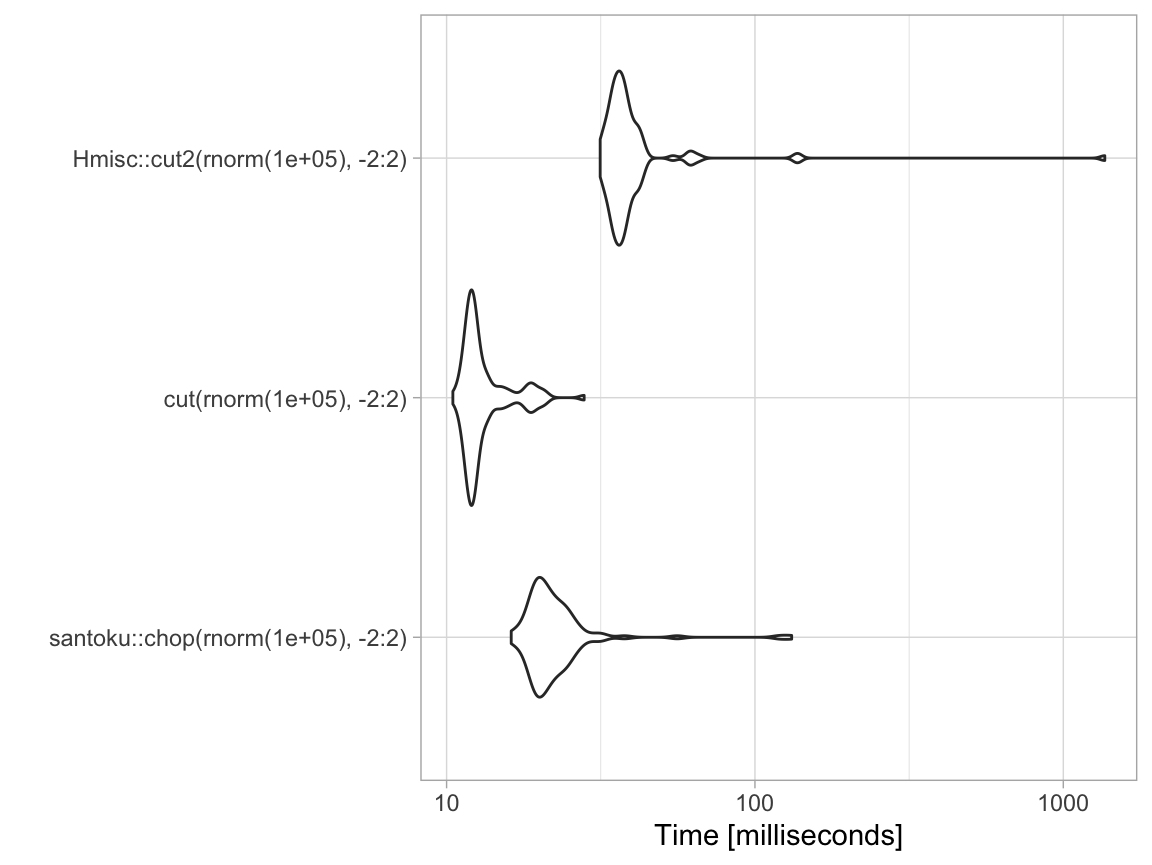
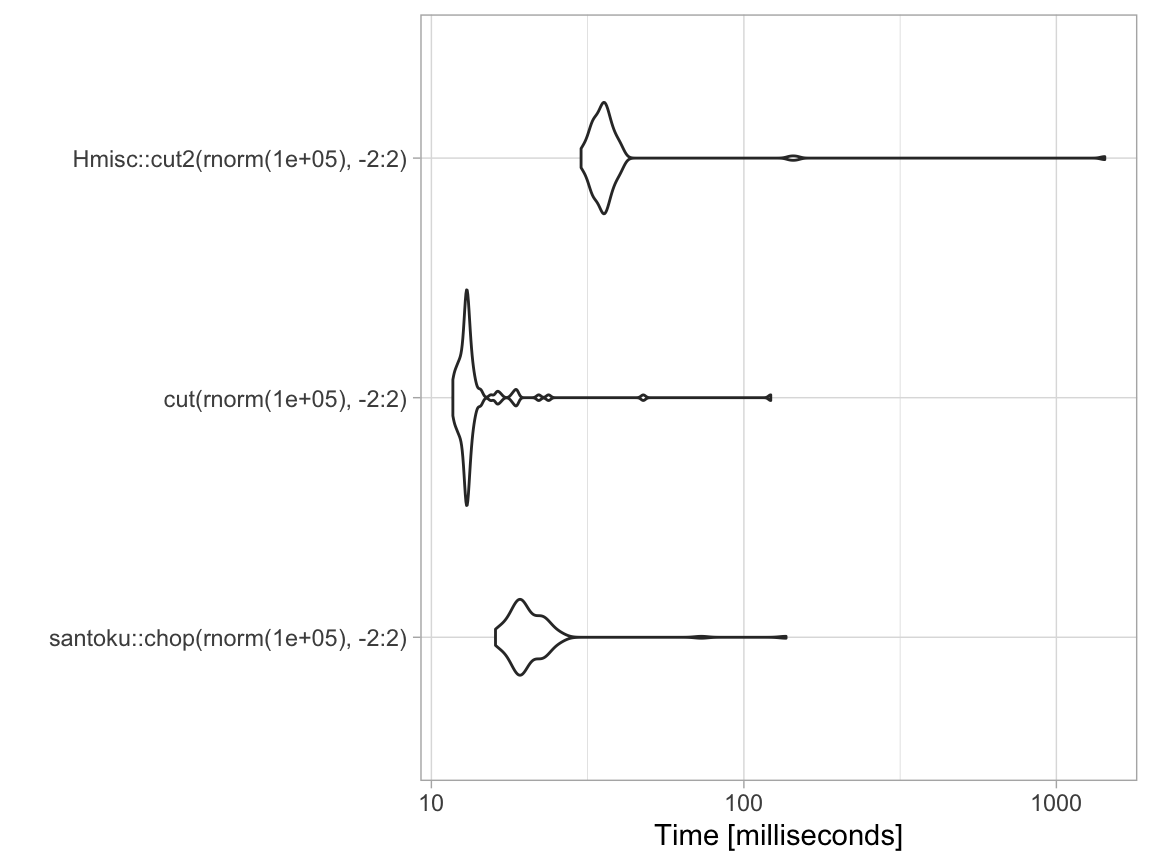
Update website to new version

diff --git a/docs/news/index.html b/docs/news/index.html
@@ -79,7 +79,7 @@
       </button>
       <span class="navbar-brand">
         <a class="navbar-link" href="../index.html">santoku</a>
-        <span class="version label label-default" data-toggle="tooltip" data-placement="bottom" title="Released version">0.4.1</span>
+        <span class="version label label-default" data-toggle="tooltip" data-placement="bottom" title="Released version">0.5.0</span>
       </span>
     </div>
 
@@ -152,17 +152,30 @@
       <small>Source: <a href='https://github.com/hughjonesd/santoku/blob/master/NEWS.md'><code>NEWS.md</code></a></small>
     </div>
 
-    <div id="santoku-0-4-1" class="section level1">
+    <div id="santoku-050" class="section level1">
+<h1 class="page-header" data-toc-text="0.5.0">
+<a href="#santoku-050" class="anchor"></a>santoku 0.5.0<small> Unreleased </small>
+</h1>
+<ul>
+<li>Negative numbers can be used in <code><a href="../reference/chop_width.html">chop_width()</a></code>.
+<ul>
+<li>This sets <code>left = FALSE</code> by default.</li>
+<li>Also works for negative time intervals.</li>
+</ul>
+</li>
+</ul>
+</div>
+    <div id="santoku-041" class="section level1">
 <h1 class="page-header" data-toc-text="0.4.1">
-<a href="#santoku-0-4-1" class="anchor"></a>santoku 0.4.1<small> 2020-06-16 </small>
+<a href="#santoku-041" class="anchor"></a>santoku 0.4.1<small> 2020-06-16 </small>
 </h1>
 <ul>
 <li>Bugfix: <code><a href="../reference/chop.html">chop(1:4, 1)</a></code> was erroring.</li>
 </ul>
 </div>
-    <div id="santoku-0-4-0" class="section level1">
+    <div id="santoku-040" class="section level1">
 <h1 class="page-header" data-toc-text="0.4.0">
-<a href="#santoku-0-4-0" class="anchor"></a>santoku 0.4.0<small> 2020-06-09 </small>
+<a href="#santoku-040" class="anchor"></a>santoku 0.4.0<small> 2020-06-09 </small>
 </h1>
 <div id="interface-changes" class="section level2">
 <h2 class="hasAnchor">
@@ -170,7 +183,7 @@
 <p>The new version has some interface changes. These are based on user experience, and are designed to make using <code><a href="../reference/chop.html">chop()</a></code> more intuitive and predictable.</p>
 <ul>
 <li>
-<code><a href="../reference/chop.html">chop()</a></code> has two new arguments, <code>left</code> and <code>close_end</code>.
+<p><code><a href="../reference/chop.html">chop()</a></code> has two new arguments, <code>left</code> and <code>close_end</code>.</p>
 <ul>
 <li>Using <code>left = FALSE</code> is simpler and more intuitive than wrapping breaks in <code><a href="../reference/brk-left-right.html">brk_right()</a></code>.</li>
 <li>
@@ -181,11 +194,11 @@
 </ul>
 </li>
 <li>
-<code>close_end</code> is now <code>FALSE</code> by default.
+<p><code>close_end</code> is now <code>FALSE</code> by default.</p>
 <ul>
-<li>This prevents user surprises when e.g. <code><a href="../reference/chop.html">chop(3, 1:3)</a></code> puts <code>3</code> into a different category than <code><a href="../reference/chop.html">chop(3, 1:4)</a></code>.</li>
+<li>This prevents user surprises when e.g. <code><a href="../reference/chop.html">chop(3, 1:3)</a></code> puts <code>3</code> into a different category than <code><a href="../reference/chop.html">chop(3, 1:4)</a></code>.</li>
 <li>
-<code>close_end</code> is <code>TRUE</code> by default for <code><a href="../reference/chop_quantiles.html">chop_quantiles()</a></code>, <code><a href="../reference/chop_n.html">chop_n()</a></code> and similar functions. This ensures that e.g. <code><a href="../reference/chop_quantiles.html">chop_quantiles(x, c(0, 1/3, 2/3, 1))</a></code> does what you would expect.</li>
+<code>close_end</code> is <code>TRUE</code> by default for <code><a href="../reference/chop_quantiles.html">chop_quantiles()</a></code>, <code><a href="../reference/chop_n.html">chop_n()</a></code> and similar functions. This ensures that e.g.  <code><a href="../reference/chop_quantiles.html">chop_quantiles(x, c(0, 1/3, 2/3, 1))</a></code> does what you would expect.</li>
 </ul>
 </li>
 <li><p>The <code>groups</code> argument to <code><a href="../reference/chop_width.html">chop_evenly()</a></code> has been renamed from <code>groups</code> to <code>intervals</code>. This should make it easier to remember the difference between <code><a href="../reference/chop_width.html">chop_evenly()</a></code> and <code><a href="../reference/chop_quantiles.html">chop_equally()</a></code>. (Chop evenly into <code>n</code> equal-width <em>intervals</em>, or chop equally into <code>n</code> equal-sized <em>groups</em>.)</p></li>
@@ -196,14 +209,15 @@
 <h2 class="hasAnchor">
 <a href="#other-changes" class="anchor"></a>Other changes</h2>
 <ul>
-<li>Date and datetime (<code>POSIXct</code>) objects can now be chopped.
+<li>
+<p>Date and datetime (<code>POSIXct</code>) objects can now be chopped.</p>
 <ul>
 <li>
 <code><a href="../reference/chop_width.html">chop_width()</a></code> accepts <code>difftime</code>, <code><a href="http://lubridate.tidyverse.org/reference/period.html">lubridate::period</a></code> or <code><a href="http://lubridate.tidyverse.org/reference/duration.html">lubridate::duration</a></code> objects</li>
 <li>all other <code>chop_</code> functions work as well.</li>
 </ul>
 </li>
-<li><p>Many labelling functions have a new <code>fmt</code> argument. This can be a string interpreted by <code><a href="https://rdrr.io/r/base/sprintf.html">sprintf()</a></code> or <code><a href="https://rdrr.io/r/base/format.html">format()</a></code>, or a 1-argument formatting function for break endpoints, e.g. <code><a href="https://scales.r-lib.org//reference/label_percent.html">scales::label_percent()</a></code>.</p></li>
+<li><p>Many labelling functions have a new <code>fmt</code> argument. This can be a string interpreted by <code><a href="https://rdrr.io/r/base/sprintf.html">sprintf()</a></code> or <code><a href="https://rdrr.io/r/base/format.html">format()</a></code>, or a 1-argument formatting function for break endpoints, e.g. <code><a href="https://scales.r-lib.org//reference/label_percent.html">scales::label_percent()</a></code>.</p></li>
 <li><p>Experimental: <code><a href="../reference/lbl_discrete.html">lbl_discrete()</a></code> for discrete data such as integers or (most) dates.</p></li>
 <li><p>There is a new <code><a href="../reference/lbl_endpoint.html">lbl_endpoint()</a></code> function for labelling intervals solely by their left or right endpoint.</p></li>
 <li><p><code><a href="../reference/chop_mean_sd.html">brk_mean_sd()</a></code> now accepts non-integer positive numbers.</p></li>
@@ -213,16 +227,16 @@
 </ul>
 </div>
 </div>
-    <div id="santoku-0-3-0" class="section level1">
+    <div id="santoku-030" class="section level1">
 <h1 class="page-header" data-toc-text="0.3.0">
-<a href="#santoku-0-3-0" class="anchor"></a>santoku 0.3.0<small> 2020-01-24 </small>
+<a href="#santoku-030" class="anchor"></a>santoku 0.3.0<small> 2020-01-24 </small>
 </h1>
 <ul>
 <li><p>First CRAN release.</p></li>
 <li><p>Changed <code>kut()</code> to <code><a href="../reference/chop.html">kiru()</a></code>. <code><a href="../reference/chop.html">kiru()</a></code> is an alternative spelling for <code><a href="../reference/chop.html">chop()</a></code>, for use when the tidyr package is loaded.</p></li>
 <li><p><code>lbl_sequence()</code> has become <code><a href="../reference/lbl_manual.html">lbl_manual()</a></code>.</p></li>
 <li>
-<code>lbl_letters()</code> and friends have been replaced by <code><a href="../reference/lbl_seq.html">lbl_seq()</a></code>:
+<p><code>lbl_letters()</code> and friends have been replaced by <code><a href="../reference/lbl_seq.html">lbl_seq()</a></code>:</p>
 <ul>
 <li>to replace <code>lbl_letters()</code> use <code><a href="../reference/lbl_seq.html">lbl_seq()</a></code>
 </li>
@@ -234,15 +248,15 @@
 </li>
 <li>to replace <code>lbl_numerals()</code> use <code><a href="../reference/lbl_seq.html">lbl_seq("1")</a></code>
 </li>
-<li>for more complex formatting use e.g. <code><a href="../reference/lbl_seq.html">lbl_seq("A:")</a></code>, <code><a href="../reference/lbl_seq.html">lbl_seq("(i)")</a></code>
+<li>for more complex formatting use e.g. <code><a href="../reference/lbl_seq.html">lbl_seq("A:")</a></code>, <code><a href="../reference/lbl_seq.html">lbl_seq("(i)")</a></code>
 </li>
 </ul>
 </li>
 </ul>
 </div>
-    <div id="santoku-0-2-0" class="section level1">
+    <div id="santoku-020" class="section level1">
 <h1 class="page-header" data-toc-text="0.2.0">
-<a href="#santoku-0-2-0" class="anchor"></a>santoku 0.2.0<small> Unreleased </small>
+<a href="#santoku-020" class="anchor"></a>santoku 0.2.0<small> Unreleased </small>
 </h1>
 <ul>
 <li><p>Added a <code>NEWS.md</code> file to track changes to the package.</p></li>

diff --git a/docs/articles/website-articles/performance.html b/docs/articles/website-articles/performance.html
@@ -38,7 +38,7 @@
       </button>
       <span class="navbar-brand">
         <a class="navbar-link" href="../../index.html">santoku</a>
-        <span class="version label label-default" data-toggle="tooltip" data-placement="bottom" title="Released version">0.4.1</span>
+        <span class="version label label-default" data-toggle="tooltip" data-placement="bottom" title="Released version">0.5.0</span>
       </span>
     </div>
 
@@ -104,13 +104,13 @@
 
       
 
-      </header><div class="row">
+      </header><script src="performance_files/accessible-code-block-0.0.1/empty-anchor.js"></script><div class="row">
   <div class="col-md-9 contents">
     <div class="page-header toc-ignore">
       <h1 data-toc-skip>Performance</h1>
                         <h4 class="author">David Hugh-Jones</h4>
             
-            <h4 class="date">2020-06-17</h4>
+            <h4 class="date">2020-08-17</h4>
       
       <small class="dont-index">Source: <a href="https://github.com/hughjonesd/santoku/blob/master/vignettes/website-articles/performance.Rmd"><code>vignettes/website-articles/performance.Rmd</code></a></small>
       <div class="hidden name"><code>performance.Rmd</code></div>
@@ -125,7 +125,7 @@
 <p>The core of santoku is written in C++. It is reasonably fast:</p>
 <div class="sourceCode" id="cb1"><html><body><pre class="r">
 <span class="fu"><a href="https://rdrr.io/r/utils/packageDescription.html">packageVersion</a></span>(<span class="st">"santoku"</span>)
-<span class="co">#&gt; [1] '0.4.1'</span>
+<span class="co">#&gt; [1] '0.5.0'</span>
 <span class="no">mb</span> <span class="kw">&lt;-</span> <span class="kw pkg">microbenchmark</span><span class="kw ns">::</span><span class="fu"><a href="https://rdrr.io/pkg/microbenchmark/man/microbenchmark.html">microbenchmark</a></span>(
         <span class="kw pkg">santoku</span><span class="kw ns">::</span><span class="fu"><a href="../../reference/chop.html">chop</a></span>(<span class="fu"><a href="https://rdrr.io/r/stats/Normal.html">rnorm</a></span>(<span class="fl">1e5</span>), -<span class="fl">2</span>:<span class="fl">2</span>),
                   <span class="fu"><a href="https://rdrr.io/r/base/cut.html">cut</a></span>(<span class="fu"><a href="https://rdrr.io/r/stats/Normal.html">rnorm</a></span>(<span class="fl">1e5</span>), -<span class="fl">2</span>:<span class="fl">2</span>),
@@ -133,14 +133,14 @@
       )
 <span class="no">mb</span>
 <span class="co">#&gt; Unit: milliseconds</span>
-<span class="co">#&gt;                               expr      min       lq     mean   median       uq</span>
-<span class="co">#&gt;  santoku::chop(rnorm(1e+05), -2:2) 16.20324 19.52585 24.16990 20.87317 23.83831</span>
-<span class="co">#&gt;            cut(rnorm(1e+05), -2:2) 10.48017 11.85034 13.41989 12.26808 13.48449</span>
-<span class="co">#&gt;    Hmisc::cut2(rnorm(1e+05), -2:2) 31.48280 34.82027 53.32684 36.86512 39.45689</span>
-<span class="co">#&gt;         max neval cld</span>
-<span class="co">#&gt;   131.55395   100  a </span>
-<span class="co">#&gt;    27.93251   100  a </span>
-<span class="co">#&gt;  1363.16763   100   b</span></pre></body></html></div>
+<span class="co">#&gt;                               expr      min       lq     mean  median       uq</span>
+<span class="co">#&gt;  santoku::chop(rnorm(1e+05), -2:2) 16.03802 18.64176 21.85786 19.6044 22.25228</span>
+<span class="co">#&gt;            cut(rnorm(1e+05), -2:2) 11.71520 12.60380 14.88399 12.9680 13.36752</span>
+<span class="co">#&gt;    Hmisc::cut2(rnorm(1e+05), -2:2) 30.12912 33.26945 51.38185 35.5054 37.15570</span>
+<span class="co">#&gt;        max neval</span>
+<span class="co">#&gt;   136.4545   100</span>
+<span class="co">#&gt;   121.8933   100</span>
+<span class="co">#&gt;  1428.6020   100</span></pre></body></html></div>
 <div class="sourceCode" id="cb2"><html><body><pre class="r"><span class="kw pkg">ggplot2</span><span class="kw ns">::</span><span class="fu"><a href="https://ggplot2.tidyverse.org/reference/autoplot.html">autoplot</a></span>(<span class="no">mb</span>) + <span class="kw pkg">ggplot2</span><span class="kw ns">::</span><span class="fu"><a href="https://ggplot2.tidyverse.org/reference/ggtheme.html">theme_light</a></span>()
 <span class="co">#&gt; Coordinate system already present. Adding new coordinate system, which will replace the existing one.</span></pre></body></html></div>
 <p><img src="performance_files/figure-html/unnamed-chunk-2-1.png" width="576"></p>

diff --git a/docs/reference/santoku-package.html b/docs/reference/santoku-package.html
@@ -83,7 +83,7 @@ same length, coding which interval each element of x falls into." />
       </button>
       <span class="navbar-brand">
         <a class="navbar-link" href="../index.html">santoku</a>
-        <span class="version label label-default" data-toggle="tooltip" data-placement="bottom" title="Released version">0.4.1.9000</span>
+        <span class="version label label-default" data-toggle="tooltip" data-placement="bottom" title="Released version">0.5.0</span>
       </span>
     </div>
 
@@ -159,7 +159,7 @@ same length, coding which interval each element of x falls into." />
 
     <div class="ref-description">
     <p>santoku is a tool for cutting data into intervals. It provides
-the function <code><a href='chop.html'>chop()</a></code>, which is similar to base R's <code><a href='https://rdrr.io/r/base/cut.html'>cut()</a></code> or <code>Hmisc::cut2()</code>.
+the function <code><a href='chop.html'>chop()</a></code>, which is similar to base R's <code><a href='https://rdrr.io/r/base/cut.html'>cut()</a></code> or <code><a href='https://rdrr.io/pkg/Hmisc/man/cut2.html'>Hmisc::cut2()</a></code>.
 <code><a href='chop.html'>chop(x, breaks)</a></code> takes a vector <code>x</code> and returns a factor of the
 same length, coding which interval each element of <code>x</code> falls into.</p>
     </div>

diff --git a/docs/articles/santoku_files/accessible-code-block-0.0.1/empty-anchor.js b/docs/articles/santoku_files/accessible-code-block-0.0.1/empty-anchor.js
@@ -1,0 +1,15 @@
+// Hide empty <a> tag within highlighted CodeBlock for screen reader accessibility (see https://github.com/jgm/pandoc/issues/6352#issuecomment-626106786) -->
+// v0.0.1
+// Written by JooYoung Seo (jooyoung@psu.edu) and Atsushi Yasumoto on June 1st, 2020.
+
+document.addEventListener('DOMContentLoaded', function() {
+  const codeList = document.getElementsByClassName("sourceCode");
+  for (var i = 0; i < codeList.length; i++) {
+    var linkList = codeList[i].getElementsByTagName('a');
+    for (var j = 0; j < linkList.length; j++) {
+      if (linkList[j].innerHTML === "") {
+        linkList[j].setAttribute('aria-hidden', 'true');
+      }
+    }
+  }
+});

diff --git a/docs/articles/website-articles/performance_files/accessible-code-block-0.0.1/empty-anchor.js b/docs/articles/website-articles/performance_files/accessible-code-block-0.0.1/empty-anchor.js
@@ -1,0 +1,15 @@
+// Hide empty <a> tag within highlighted CodeBlock for screen reader accessibility (see https://github.com/jgm/pandoc/issues/6352#issuecomment-626106786) -->
+// v0.0.1
+// Written by JooYoung Seo (jooyoung@psu.edu) and Atsushi Yasumoto on June 1st, 2020.
+
+document.addEventListener('DOMContentLoaded', function() {
+  const codeList = document.getElementsByClassName("sourceCode");
+  for (var i = 0; i < codeList.length; i++) {
+    var linkList = codeList[i].getElementsByTagName('a');
+    for (var j = 0; j < linkList.length; j++) {
+      if (linkList[j].innerHTML === "") {
+        linkList[j].setAttribute('aria-hidden', 'true');
+      }
+    }
+  }
+});

diff --git a/docs/reference/chop_mean_sd.html b/docs/reference/chop_mean_sd.html
@@ -81,7 +81,7 @@ The outermost pair of intervals will be shorter if sd is not a whole number." />
       </button>
       <span class="navbar-brand">
         <a class="navbar-link" href="../index.html">santoku</a>
-        <span class="version label label-default" data-toggle="tooltip" data-placement="bottom" title="Released version">0.4.1.9000</span>
+        <span class="version label label-default" data-toggle="tooltip" data-placement="bottom" title="Released version">0.5.0</span>
       </span>
     </div>
 

diff --git a/docs/reference/chop.html b/docs/reference/chop.html
@@ -81,7 +81,7 @@ length as x, representing which interval contains each element of x." />
       </button>
       <span class="navbar-brand">
         <a class="navbar-link" href="../index.html">santoku</a>
-        <span class="version label label-default" data-toggle="tooltip" data-placement="bottom" title="Released version">0.4.1.9000</span>
+        <span class="version label label-default" data-toggle="tooltip" data-placement="bottom" title="Released version">0.5.0</span>
       </span>
     </div>
 

diff --git a/docs/reference/knife.html b/docs/reference/knife.html
@@ -82,7 +82,7 @@ knife() is deprecated in favour of purrr::partial()." />
       </button>
       <span class="navbar-brand">
         <a class="navbar-link" href="../index.html">santoku</a>
-        <span class="version label label-default" data-toggle="tooltip" data-placement="bottom" title="Released version">0.4.1.9000</span>
+        <span class="version label label-default" data-toggle="tooltip" data-placement="bottom" title="Released version">0.5.0</span>
       </span>
     </div>
 

diff --git a/docs/reference/chop_width.html b/docs/reference/chop_width.html
@@ -81,7 +81,7 @@ chops x into intervals intervals of equal width." />
       </button>
       <span class="navbar-brand">
         <a class="navbar-link" href="../index.html">santoku</a>
-        <span class="version label label-default" data-toggle="tooltip" data-placement="bottom" title="Released version">0.4.1.9000</span>
+        <span class="version label label-default" data-toggle="tooltip" data-placement="bottom" title="Released version">0.5.0</span>
       </span>
     </div>
 

diff --git a/docs/reference/chop_n.html b/docs/reference/chop_n.html
@@ -81,7 +81,7 @@ interval may have fewer elements." />
       </button>
       <span class="navbar-brand">
         <a class="navbar-link" href="../index.html">santoku</a>
-        <span class="version label label-default" data-toggle="tooltip" data-placement="bottom" title="Released version">0.4.1.9000</span>
+        <span class="version label label-default" data-toggle="tooltip" data-placement="bottom" title="Released version">0.5.0</span>
       </span>
     </div>
 

diff --git a/docs/reference/lbl_dash.html b/docs/reference/lbl_dash.html
@@ -81,7 +81,7 @@ left- and right-closed intervals." />
       </button>
       <span class="navbar-brand">
         <a class="navbar-link" href="../index.html">santoku</a>
-        <span class="version label label-default" data-toggle="tooltip" data-placement="bottom" title="Released version">0.4.1.9000</span>
+        <span class="version label label-default" data-toggle="tooltip" data-placement="bottom" title="Released version">0.5.0</span>
       </span>
     </div>
 

diff --git a/docs/reference/chop_quantiles.html b/docs/reference/chop_quantiles.html
@@ -82,7 +82,7 @@ chops into deciles." />
       </button>
       <span class="navbar-brand">
         <a class="navbar-link" href="../index.html">santoku</a>
-        <span class="version label label-default" data-toggle="tooltip" data-placement="bottom" title="Released version">0.4.1.9000</span>
+        <span class="version label label-default" data-toggle="tooltip" data-placement="bottom" title="Released version">0.5.0</span>
       </span>
     </div>
 
